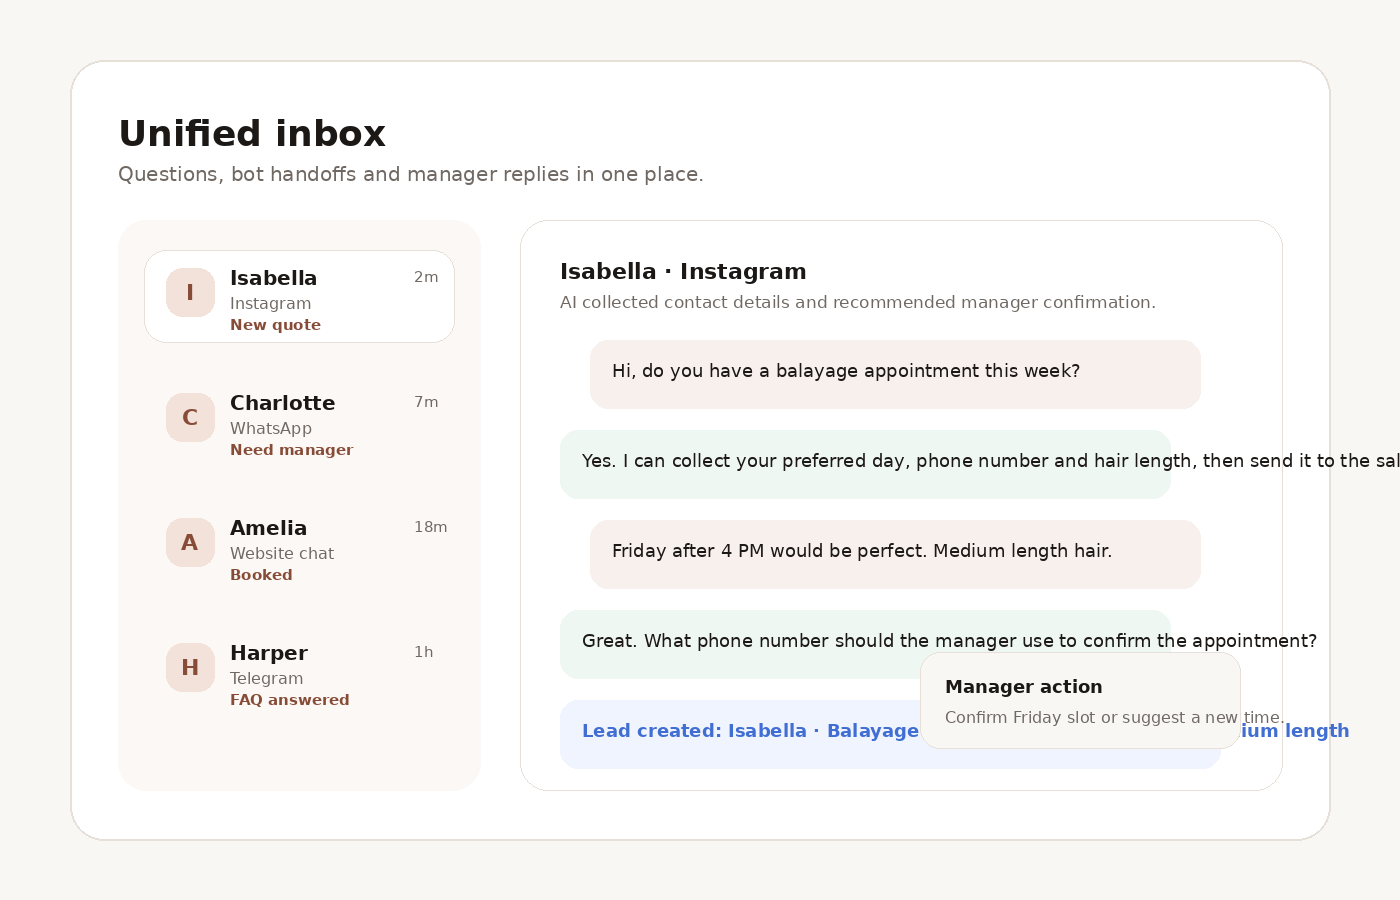
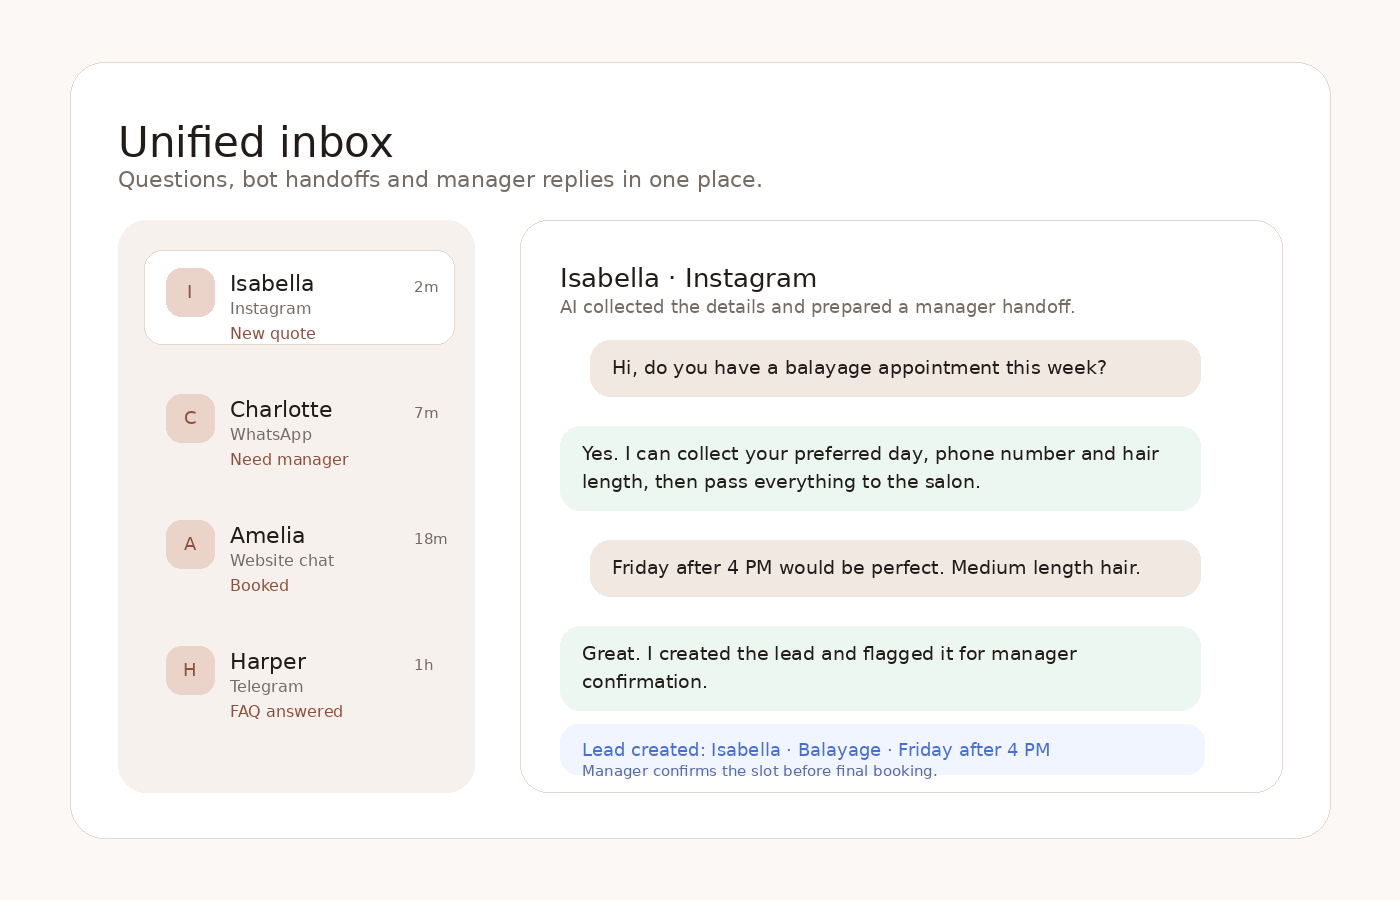
Add files via upload

diff --git a/index.html b/index.html
@@ -8,7 +8,7 @@
   <meta property="og:title" content="AI Receptionist for Beauty Salons | BeautyFlow AI" />
   <meta property="og:description" content="English landing page for an AI receptionist that replies to salon clients, collects booking details and sends structured leads to the team." />
   <meta property="og:type" content="website" />
-  <meta property="og:image" content="assets/dashboard-leads.png" />
+  <meta property="og:image" content="assets/dashboard-leads.png?v=4" />
   <link rel="stylesheet" href="styles.css" />
 </head>
 <body>
@@ -45,7 +45,7 @@
         </div>
       </div>
       <div class="hero-card">
-        <img src="assets/dashboard-leads.png" alt="English dashboard with salon booking requests" />
+        <img src="assets/dashboard-leads.png?v=4" alt="English dashboard with salon booking requests" />
         <div class="floating-note"><strong>Ready to confirm</strong><span>Name, service, preferred time and channel are already collected.</span></div>
       </div>
     </div>
@@ -86,12 +86,12 @@
     <div class="container">
       <div class="section-head">
         <div class="section-kicker">Screens</div>
-        <h2>English dashboard mockups instead of old Russian screenshots</h2>
-        <p>The original internal files and Russian-market docs were removed. These visuals are lightweight and ready for a public GitHub Pages portfolio.</p>
+        <h2>Clean English dashboard mockups</h2>
+        <p>Two simple product screens show how leads, statuses and manager handoffs work. Lightweight and ready for a public GitHub Pages portfolio.</p>
       </div>
       <div class="screens">
-        <figure class="screen-card"><img src="assets/dashboard-leads.png" alt="Booking requests dashboard"><figcaption class="pill" style="margin-top:14px">New leads and statuses</figcaption></figure>
-        <figure class="screen-card"><img src="assets/dashboard-inbox.png" alt="Unified inbox dashboard"><figcaption class="pill" style="margin-top:14px">Manager handoff inbox</figcaption></figure>
+        <figure class="screen-card"><img src="assets/dashboard-leads.png?v=4" alt="Booking requests dashboard"><figcaption class="pill" style="margin-top:14px">New leads and statuses</figcaption></figure>
+        <figure class="screen-card"><img src="assets/dashboard-inbox.png?v=4" alt="Unified inbox dashboard"><figcaption class="pill" style="margin-top:14px">Manager handoff inbox</figcaption></figure>
       </div>
     </div>
   </section>

diff --git a/styles.css b/styles.css
@@ -18,4 +18,4 @@
 *{box-sizing:border-box}
 html{scroll-behavior:smooth}
 body{margin:0;font-family:Inter,ui-sans-serif,system-ui,-apple-system,BlinkMacSystemFont,"Segoe UI",Arial,sans-serif;background:var(--bg);color:var(--ink);line-height:1.55;text-rendering:optimizeLegibility}
-a{color:inherit;text-decoration:none} img{max-width:100%;display:block} p{margin:0} h1,h2,h3{margin:0;line-height:1.05;letter-spacing:-.04em} ul{margin:0;padding:0;list-style:none}.container{width:min(var(--container),calc(100% - 40px));margin:0 auto}.skip-link{position:absolute;left:-999px;top:12px;background:var(--ink);color:#fff;padding:10px 14px;border-radius:12px;z-index:100}.skip-link:focus{left:16px}.site-header{position:sticky;top:0;z-index:50;background:rgba(251,248,245,.82);backdrop-filter:blur(16px);border-bottom:1px solid rgba(232,222,215,.9)}.header-inner{height:76px;display:flex;align-items:center;justify-content:space-between;gap:20px}.logo{font-weight:900;font-size:20px;letter-spacing:-.06em}.logo span{color:var(--accent)}.main-nav{display:flex;align-items:center;gap:24px;color:var(--muted);font-size:14px}.main-nav a:hover{color:var(--ink)}.button{display:inline-flex;align-items:center;justify-content:center;gap:9px;border-radius:999px;padding:14px 22px;font-weight:800;border:1px solid transparent;transition:.2s ease;cursor:pointer;white-space:nowrap}.button-primary{background:var(--ink);color:#fff;box-shadow:0 14px 30px rgba(31,26,23,.18)}.button-primary:hover{transform:translateY(-2px);box-shadow:0 18px 40px rgba(31,26,23,.22)}.button-secondary{background:var(--paper);color:var(--ink);border-color:var(--line)}.button-secondary:hover{border-color:#d5c5ba;transform:translateY(-2px)}.button-accent{background:var(--accent);color:#fff;box-shadow:0 14px 32px rgba(183,117,91,.25)}.button-accent:hover{transform:translateY(-2px);box-shadow:0 18px 42px rgba(183,117,91,.3)}.button-small{padding:10px 15px;font-size:14px}.mobile-menu{display:none;background:none;border:0;font-weight:800;color:var(--ink)}.hero{padding:84px 0 62px;position:relative;overflow:hidden}.hero:before{content:"";position:absolute;inset:-160px -20% auto 45%;height:520px;background:radial-gradient(circle,var(--accent-soft),transparent 66%);z-index:-1}.hero-grid{display:grid;grid-template-columns:1.05fr .95fr;gap:44px;align-items:center}.eyebrow{display:inline-flex;align-items:center;gap:8px;padding:8px 14px;border-radius:999px;background:var(--accent-soft);color:var(--accent-dark);font-weight:850;font-size:13px;margin-bottom:20px}.hero h1{font-size:clamp(42px,6vw,76px);max-width:860px}.hero h1 em{font-style:normal;color:var(--accent)}.lead{font-size:clamp(18px,2.1vw,23px);color:var(--muted);margin-top:22px;max-width:680px}.hero-actions{display:flex;gap:14px;flex-wrap:wrap;margin-top:34px}.trust-row{display:flex;gap:12px;flex-wrap:wrap;margin-top:26px}.pill{display:inline-flex;align-items:center;gap:8px;padding:9px 12px;border-radius:999px;background:rgba(255,255,255,.8);border:1px solid var(--line);color:var(--muted);font-size:14px;font-weight:700}.check{color:var(--green);font-weight:900}.hero-card{background:rgba(255,255,255,.78);border:1px solid var(--line);border-radius:36px;box-shadow:var(--shadow);padding:18px;position:relative}.hero-card img{border-radius:26px;border:1px solid var(--line)}.floating-note{position:absolute;right:-12px;bottom:34px;background:var(--ink);color:#fff;padding:16px 18px;border-radius:20px;box-shadow:0 20px 50px rgba(31,26,23,.22);max-width:270px}.floating-note strong{display:block;font-size:15px;margin-bottom:4px}.floating-note span{display:block;font-size:13px;color:rgba(255,255,255,.72)}.section{padding:78px 0}.section-alt{background:#fff;border-block:1px solid var(--line)}.section-head{max-width:760px;margin-bottom:34px}.section-head.center{text-align:center;margin-left:auto;margin-right:auto}.section-kicker{font-weight:900;color:var(--accent-dark);text-transform:uppercase;letter-spacing:.12em;font-size:12px;margin-bottom:12px}.section h2{font-size:clamp(32px,4vw,52px)}.section-head p{color:var(--muted);font-size:19px;margin-top:16px}.grid-3{display:grid;grid-template-columns:repeat(3,1fr);gap:18px}.grid-2{display:grid;grid-template-columns:repeat(2,1fr);gap:22px}.card{background:var(--paper);border:1px solid var(--line);border-radius:var(--radius);padding:28px;box-shadow:0 14px 50px rgba(80,52,38,.06)}.card h3{font-size:24px;margin-bottom:12px}.card p{color:var(--muted)}.icon{width:46px;height:46px;border-radius:16px;background:var(--accent-soft);display:grid;place-items:center;color:var(--accent-dark);font-weight:950;margin-bottom:18px}.problem-list{display:grid;gap:14px}.problem-list li{background:rgba(255,255,255,.75);border:1px solid var(--line);border-radius:22px;padding:18px 20px;color:var(--muted)}.steps{counter-reset:step;display:grid;gap:16px}.step{counter-increment:step;display:grid;grid-template-columns:58px 1fr;gap:18px;align-items:start;background:#fff;border:1px solid var(--line);border-radius:26px;padding:22px}.step:before{content:counter(step,decimal-leading-zero);width:58px;height:58px;border-radius:20px;background:var(--ink);color:#fff;display:grid;place-items:center;font-weight:900}.screens{display:grid;grid-template-columns:1fr 1fr;gap:22px}.screen-card{background:#fff;border:1px solid var(--line);border-radius:30px;padding:14px;box-shadow:var(--shadow)}.screen-card img{border-radius:22px}.demo-box{background:#201a17;color:#fff;border-radius:36px;padding:30px;display:grid;grid-template-columns:.8fr 1.2fr;gap:24px;align-items:center;box-shadow:0 24px 80px rgba(31,26,23,.2)}.chat{display:grid;gap:12px}.bubble{max-width:88%;padding:13px 16px;border-radius:18px;font-size:15px}.bubble.client{background:#fff;color:var(--ink);justify-self:start}.bubble.bot{background:#efe0d8;color:var(--ink);justify-self:end}.bubble.system{background:#32405f;color:#fff;justify-self:center;max-width:96%;font-weight:800}.pricing{display:grid;grid-template-columns:repeat(3,1fr);gap:18px}.price-card{position:relative;background:#fff;border:1px solid var(--line);border-radius:30px;padding:28px;display:flex;flex-direction:column;gap:18px}.price-card.featured{border-color:var(--accent);box-shadow:var(--shadow)}.tag{position:absolute;top:20px;right:20px;background:var(--accent);color:#fff;border-radius:999px;padding:7px 10px;font-size:12px;font-weight:900}.price{font-size:38px;font-weight:950;letter-spacing:-.06em}.price small{font-size:14px;color:var(--muted);font-weight:800}.feature-list{display:grid;gap:10px;color:var(--muted)}.feature-list li{display:flex;gap:8px}.feature-list li:before{content:"✓";font-weight:950;color:var(--green)}.niche-list{display:grid;grid-template-columns:repeat(3,1fr);gap:18px}.niche{padding:24px;border-radius:28px;background:#fff;border:1px solid var(--line);display:flex;flex-direction:column;gap:14px}.niche small{color:var(--accent-dark);font-weight:900;text-transform:uppercase;letter-spacing:.1em}.niche h3{font-size:24px}.niche p{color:var(--muted);flex:1}.faq{display:grid;gap:12px}.faq details{background:#fff;border:1px solid var(--line);border-radius:22px;padding:18px 20px}.faq summary{font-weight:900;cursor:pointer}.faq p{color:var(--muted);margin-top:12px}.contact-card{background:linear-gradient(135deg,#211a17,#5d3328);color:#fff;border-radius:38px;padding:40px;display:grid;grid-template-columns:1fr auto;gap:24px;align-items:center;overflow:hidden}.contact-card p{color:rgba(255,255,255,.74);margin-top:14px;font-size:18px}.site-footer{padding:32px 0;color:var(--muted);font-size:14px}.footer-inner{display:flex;justify-content:space-between;gap:20px;flex-wrap:wrap}.footer-links{display:flex;gap:16px;flex-wrap:wrap}.back-top{position:fixed;right:18px;bottom:18px;width:44px;height:44px;border-radius:50%;background:var(--ink);color:#fff;border:0;display:none;place-items:center;font-weight:900;box-shadow:0 10px 28px rgba(31,26,23,.22);cursor:pointer}.back-top.is-visible{display:grid}.subpage-hero{padding:74px 0 50px}.subpage-grid{display:grid;grid-template-columns:1fr .9fr;gap:42px;align-items:center}.breadcrumbs{display:flex;gap:8px;align-items:center;color:var(--muted);font-size:14px;margin-bottom:18px}.breadcrumbs a{color:var(--accent-dark);font-weight:800}.metric-row{display:grid;grid-template-columns:repeat(3,1fr);gap:14px;margin-top:28px}.metric{background:#fff;border:1px solid var(--line);border-radius:22px;padding:18px}.metric strong{display:block;font-size:28px}.metric span{color:var(--muted);font-size:14px}.legal-document{max-width:850px;background:#fff;border:1px solid var(--line);border-radius:28px;margin:48px auto;padding:36px}.legal-document h1{font-size:42px;margin-bottom:18px}.legal-document h2{font-size:24px;margin-top:26px;margin-bottom:10px}.legal-document p,.legal-document li{color:var(--muted);margin-bottom:12px}.legal-document ul{list-style:disc;padding-left:22px}@media (max-width:900px){.main-nav{display:none;position:absolute;left:20px;right:20px;top:76px;background:#fff;border:1px solid var(--line);border-radius:24px;padding:18px;box-shadow:var(--shadow);flex-direction:column;align-items:flex-start}.main-nav.is-open{display:flex}.mobile-menu{display:block}.hero-grid,.subpage-grid,.demo-box,.contact-card{grid-template-columns:1fr}.grid-3,.pricing,.niche-list{grid-template-columns:1fr}.grid-2,.screens{grid-template-columns:1fr}.header-inner{height:68px}.floating-note{position:static;margin-top:14px;max-width:none}.metric-row{grid-template-columns:1fr}}@media (max-width:560px){.container{width:min(100% - 28px,var(--container))}.hero{padding-top:58px}.hero-actions,.button{width:100%}.button{padding:14px 18px}.section{padding:58px 0}.card,.price-card,.contact-card{padding:22px}.step{grid-template-columns:1fr}.step:before{width:46px;height:46px}.hero h1{font-size:40px}.contact-card{border-radius:28px}}
+a{color:inherit;text-decoration:none} img{max-width:100%;display:block} p{margin:0} h1,h2,h3{margin:0;line-height:1.05;letter-spacing:-.04em} ul{margin:0;padding:0;list-style:none}.container{width:min(var(--container),calc(100% - 40px));margin:0 auto}.skip-link{position:absolute;left:-999px;top:12px;background:var(--ink);color:#fff;padding:10px 14px;border-radius:12px;z-index:100}.skip-link:focus{left:16px}.site-header{position:sticky;top:0;z-index:50;background:rgba(251,248,245,.82);backdrop-filter:blur(16px);border-bottom:1px solid rgba(232,222,215,.9)}.header-inner{height:76px;display:flex;align-items:center;justify-content:space-between;gap:20px}.logo{font-weight:900;font-size:20px;letter-spacing:-.06em}.logo span{color:var(--accent)}.main-nav{display:flex;align-items:center;gap:24px;color:var(--muted);font-size:14px}.main-nav a:hover{color:var(--ink)}.button{display:inline-flex;align-items:center;justify-content:center;gap:9px;border-radius:999px;padding:14px 22px;font-weight:800;border:1px solid transparent;transition:.2s ease;cursor:pointer;white-space:nowrap}.button-primary{background:var(--ink);color:#fff;box-shadow:0 14px 30px rgba(31,26,23,.18)}.button-primary:hover{transform:translateY(-2px);box-shadow:0 18px 40px rgba(31,26,23,.22)}.button-secondary{background:var(--paper);color:var(--ink);border-color:var(--line)}.button-secondary:hover{border-color:#d5c5ba;transform:translateY(-2px)}.button-accent{background:var(--accent);color:#fff;box-shadow:0 14px 32px rgba(183,117,91,.25)}.button-accent:hover{transform:translateY(-2px);box-shadow:0 18px 42px rgba(183,117,91,.3)}.button-small{padding:10px 15px;font-size:14px}.mobile-menu{display:none;background:none;border:0;font-weight:800;color:var(--ink)}.hero{padding:84px 0 62px;position:relative;overflow:hidden}.hero:before{content:"";position:absolute;inset:-160px -20% auto 45%;height:520px;background:radial-gradient(circle,var(--accent-soft),transparent 66%);z-index:-1}.hero-grid{display:grid;grid-template-columns:1.05fr .95fr;gap:44px;align-items:center}.eyebrow{display:inline-flex;align-items:center;gap:8px;padding:8px 14px;border-radius:999px;background:var(--accent-soft);color:var(--accent-dark);font-weight:850;font-size:13px;margin-bottom:20px}.hero h1{font-size:clamp(42px,6vw,76px);max-width:860px}.hero h1 em{font-style:normal;color:var(--accent)}.lead{font-size:clamp(18px,2.1vw,23px);color:var(--muted);margin-top:22px;max-width:680px}.hero-actions{display:flex;gap:14px;flex-wrap:wrap;margin-top:34px}.trust-row{display:flex;gap:12px;flex-wrap:wrap;margin-top:26px}.pill{display:inline-flex;align-items:center;gap:8px;padding:9px 12px;border-radius:999px;background:rgba(255,255,255,.8);border:1px solid var(--line);color:var(--muted);font-size:14px;font-weight:700}.check{color:var(--green);font-weight:900}.hero-card{background:rgba(255,255,255,.78);border:1px solid var(--line);border-radius:36px;box-shadow:var(--shadow);padding:18px;position:relative}.hero-card img{border-radius:26px;border:1px solid var(--line);width:100%;height:auto;aspect-ratio:14/9;object-fit:cover;background:#fbf8f5}.floating-note{position:absolute;right:-12px;bottom:34px;background:var(--ink);color:#fff;padding:16px 18px;border-radius:20px;box-shadow:0 20px 50px rgba(31,26,23,.22);max-width:270px}.floating-note strong{display:block;font-size:15px;margin-bottom:4px}.floating-note span{display:block;font-size:13px;color:rgba(255,255,255,.72)}.section{padding:78px 0}.section-alt{background:#fff;border-block:1px solid var(--line)}.section-head{max-width:760px;margin-bottom:34px}.section-head.center{text-align:center;margin-left:auto;margin-right:auto}.section-kicker{font-weight:900;color:var(--accent-dark);text-transform:uppercase;letter-spacing:.12em;font-size:12px;margin-bottom:12px}.section h2{font-size:clamp(32px,4vw,52px)}.section-head p{color:var(--muted);font-size:19px;margin-top:16px}.grid-3{display:grid;grid-template-columns:repeat(3,1fr);gap:18px}.grid-2{display:grid;grid-template-columns:repeat(2,1fr);gap:22px}.card{background:var(--paper);border:1px solid var(--line);border-radius:var(--radius);padding:28px;box-shadow:0 14px 50px rgba(80,52,38,.06)}.card h3{font-size:24px;margin-bottom:12px}.card p{color:var(--muted)}.icon{width:46px;height:46px;border-radius:16px;background:var(--accent-soft);display:grid;place-items:center;color:var(--accent-dark);font-weight:950;margin-bottom:18px}.problem-list{display:grid;gap:14px}.problem-list li{background:rgba(255,255,255,.75);border:1px solid var(--line);border-radius:22px;padding:18px 20px;color:var(--muted)}.steps{counter-reset:step;display:grid;gap:16px}.step{counter-increment:step;display:grid;grid-template-columns:58px 1fr;gap:18px;align-items:start;background:#fff;border:1px solid var(--line);border-radius:26px;padding:22px}.step:before{content:counter(step,decimal-leading-zero);width:58px;height:58px;border-radius:20px;background:var(--ink);color:#fff;display:grid;place-items:center;font-weight:900}.screens{display:grid;grid-template-columns:1fr 1fr;gap:22px}.screen-card{background:#fff;border:1px solid var(--line);border-radius:30px;padding:14px;box-shadow:var(--shadow)}.screen-card img{border-radius:22px;width:100%;height:auto;aspect-ratio:14/9;object-fit:cover;background:#fbf8f5}.demo-box{background:#201a17;color:#fff;border-radius:36px;padding:30px;display:grid;grid-template-columns:.8fr 1.2fr;gap:24px;align-items:center;box-shadow:0 24px 80px rgba(31,26,23,.2)}.chat{display:grid;gap:12px}.bubble{max-width:88%;padding:13px 16px;border-radius:18px;font-size:15px}.bubble.client{background:#fff;color:var(--ink);justify-self:start}.bubble.bot{background:#efe0d8;color:var(--ink);justify-self:end}.bubble.system{background:#32405f;color:#fff;justify-self:center;max-width:96%;font-weight:800}.pricing{display:grid;grid-template-columns:repeat(3,1fr);gap:18px}.price-card{position:relative;background:#fff;border:1px solid var(--line);border-radius:30px;padding:28px;display:flex;flex-direction:column;gap:18px}.price-card.featured{border-color:var(--accent);box-shadow:var(--shadow)}.tag{position:absolute;top:20px;right:20px;background:var(--accent);color:#fff;border-radius:999px;padding:7px 10px;font-size:12px;font-weight:900}.price{font-size:38px;font-weight:950;letter-spacing:-.06em}.price small{font-size:14px;color:var(--muted);font-weight:800}.feature-list{display:grid;gap:10px;color:var(--muted)}.feature-list li{display:flex;gap:8px}.feature-list li:before{content:"✓";font-weight:950;color:var(--green)}.niche-list{display:grid;grid-template-columns:repeat(3,1fr);gap:18px}.niche{padding:24px;border-radius:28px;background:#fff;border:1px solid var(--line);display:flex;flex-direction:column;gap:14px}.niche small{color:var(--accent-dark);font-weight:900;text-transform:uppercase;letter-spacing:.1em}.niche h3{font-size:24px}.niche p{color:var(--muted);flex:1}.faq{display:grid;gap:12px}.faq details{background:#fff;border:1px solid var(--line);border-radius:22px;padding:18px 20px}.faq summary{font-weight:900;cursor:pointer}.faq p{color:var(--muted);margin-top:12px}.contact-card{background:linear-gradient(135deg,#211a17,#5d3328);color:#fff;border-radius:38px;padding:40px;display:grid;grid-template-columns:1fr auto;gap:24px;align-items:center;overflow:hidden}.contact-card p{color:rgba(255,255,255,.74);margin-top:14px;font-size:18px}.site-footer{padding:32px 0;color:var(--muted);font-size:14px}.footer-inner{display:flex;justify-content:space-between;gap:20px;flex-wrap:wrap}.footer-links{display:flex;gap:16px;flex-wrap:wrap}.back-top{position:fixed;right:18px;bottom:18px;width:44px;height:44px;border-radius:50%;background:var(--ink);color:#fff;border:0;display:none;place-items:center;font-weight:900;box-shadow:0 10px 28px rgba(31,26,23,.22);cursor:pointer}.back-top.is-visible{display:grid}.subpage-hero{padding:74px 0 50px}.subpage-grid{display:grid;grid-template-columns:1fr .9fr;gap:42px;align-items:center}.breadcrumbs{display:flex;gap:8px;align-items:center;color:var(--muted);font-size:14px;margin-bottom:18px}.breadcrumbs a{color:var(--accent-dark);font-weight:800}.metric-row{display:grid;grid-template-columns:repeat(3,1fr);gap:14px;margin-top:28px}.metric{background:#fff;border:1px solid var(--line);border-radius:22px;padding:18px}.metric strong{display:block;font-size:28px}.metric span{color:var(--muted);font-size:14px}.legal-document{max-width:850px;background:#fff;border:1px solid var(--line);border-radius:28px;margin:48px auto;padding:36px}.legal-document h1{font-size:42px;margin-bottom:18px}.legal-document h2{font-size:24px;margin-top:26px;margin-bottom:10px}.legal-document p,.legal-document li{color:var(--muted);margin-bottom:12px}.legal-document ul{list-style:disc;padding-left:22px}@media (max-width:900px){.main-nav{display:none;position:absolute;left:20px;right:20px;top:76px;background:#fff;border:1px solid var(--line);border-radius:24px;padding:18px;box-shadow:var(--shadow);flex-direction:column;align-items:flex-start}.main-nav.is-open{display:flex}.mobile-menu{display:block}.hero-grid,.subpage-grid,.demo-box,.contact-card{grid-template-columns:1fr}.grid-3,.pricing,.niche-list{grid-template-columns:1fr}.grid-2,.screens{grid-template-columns:1fr}.header-inner{height:68px}.floating-note{position:static;margin-top:14px;max-width:none}.metric-row{grid-template-columns:1fr}}@media (max-width:560px){.container{width:min(100% - 28px,var(--container))}.hero{padding-top:58px}.hero-actions,.button{width:100%}.button{padding:14px 18px}.section{padding:58px 0}.card,.price-card,.contact-card{padding:22px}.step{grid-template-columns:1fr}.step:before{width:46px;height:46px}.hero h1{font-size:40px}.contact-card{border-radius:28px}}